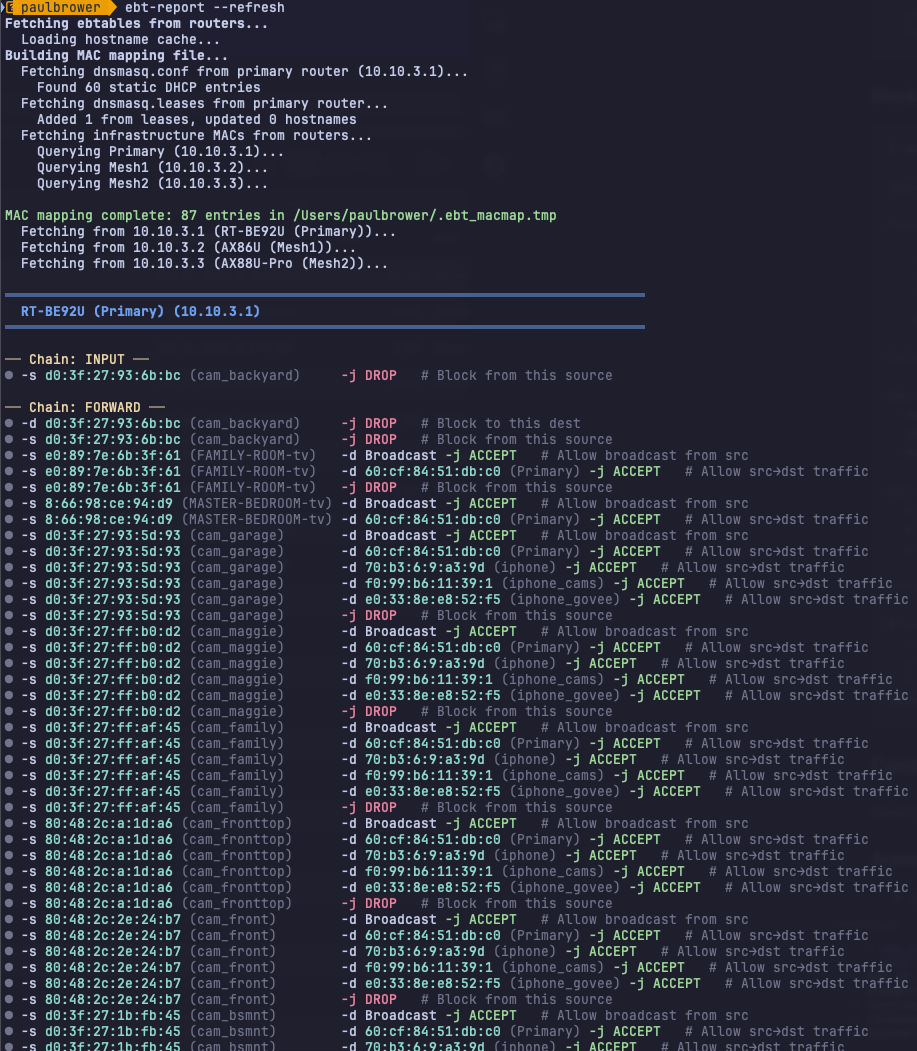
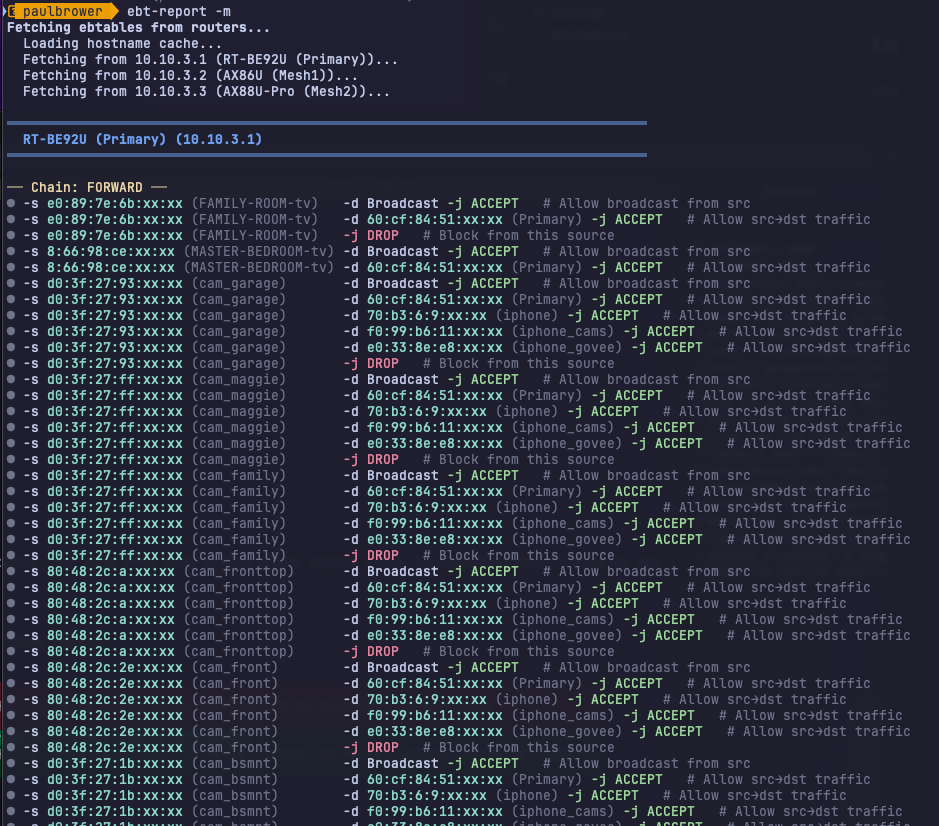
update readme

Changed region(s): [[0.0, 0.0, 0.9771, 1.0], [0.8855, 0.2421, 0.916, 0.2724]]

diff --git a/README.md b/README.md
@@ -12,7 +12,8 @@ This project provides shell functions that make it easier to:
 - Manage network devices with intuitive commands
 
 <p align="center">
-  <img src="/readme_images/ebt-report.png?raw=true" alt="ebt-table output" width="70%"/>
+  <img src="/readme_images/ebt-report.png?raw=true" alt="ebt-table output" width="45%"/>
+  <img src="/readme_images/ebt-report-end.png?raw=true" alt="ebt-table output" width="45%"/>
 </p>
 
 
